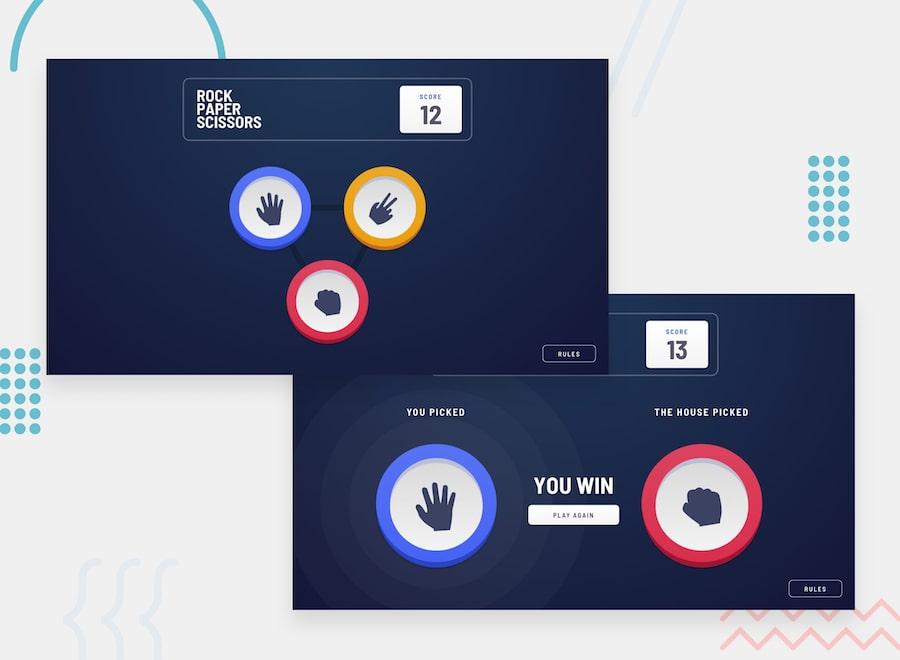
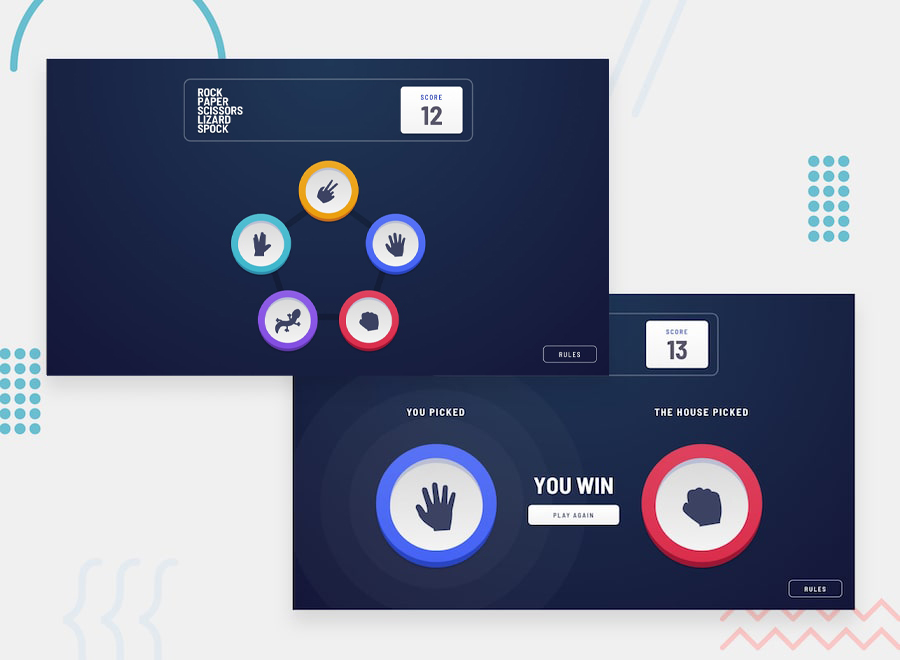
initial commit

diff --git a/rock-paper-scissors-lizard-spock.js b/rock-paper-scissors-lizard-spock.js
@@ -92,7 +92,8 @@ $(document).ready(function(){
         }, 250);
     });
 
-    window.addEventListener("resize", function(){ // When resizing the window restart game sequence
+    // When resizing the window close rules modal andrestart the game sequence
+    window.addEventListener("resize", function(){ 
         $(".close").trigger("click")
         $(".play-again>button").trigger("click")
     });

diff --git a/index.html b/index.html
@@ -11,7 +11,7 @@
   <link rel="icon" type="image/png" sizes="32x32" href="./assets/images/favicon-32x32.png">
   <script src="jquery-3.6.4.min.js"></script>
   <script src="rock-paper-scissors-lizard-spock.js"></script>
-  <title>Frontend Mentor | Rock, Paper, Scissors</title>
+  <title>Rock, Paper, Scissors</title>
 </head>
 <body>
 